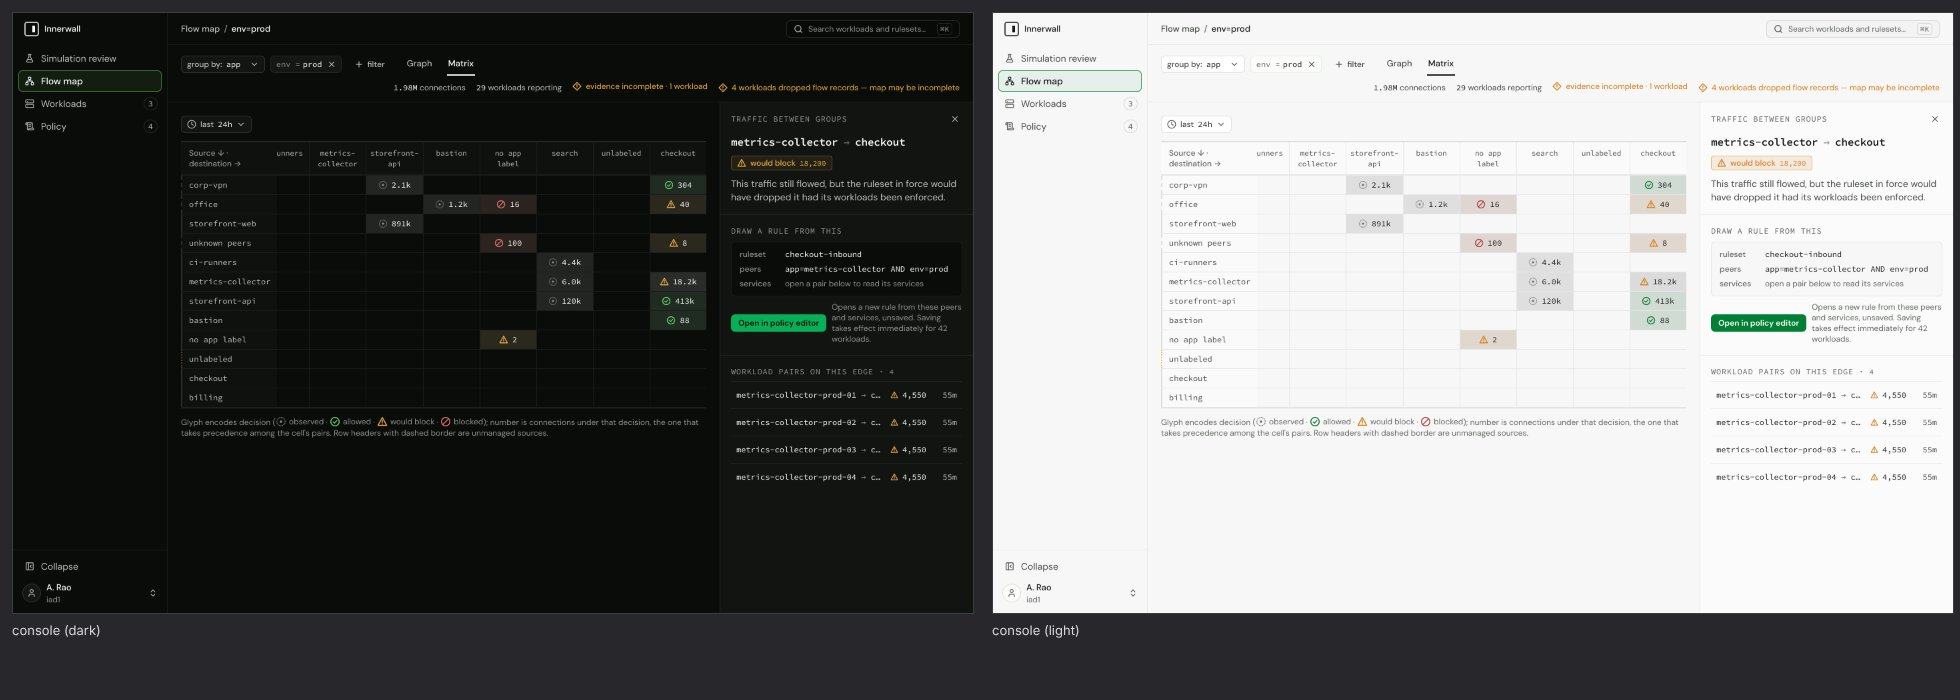
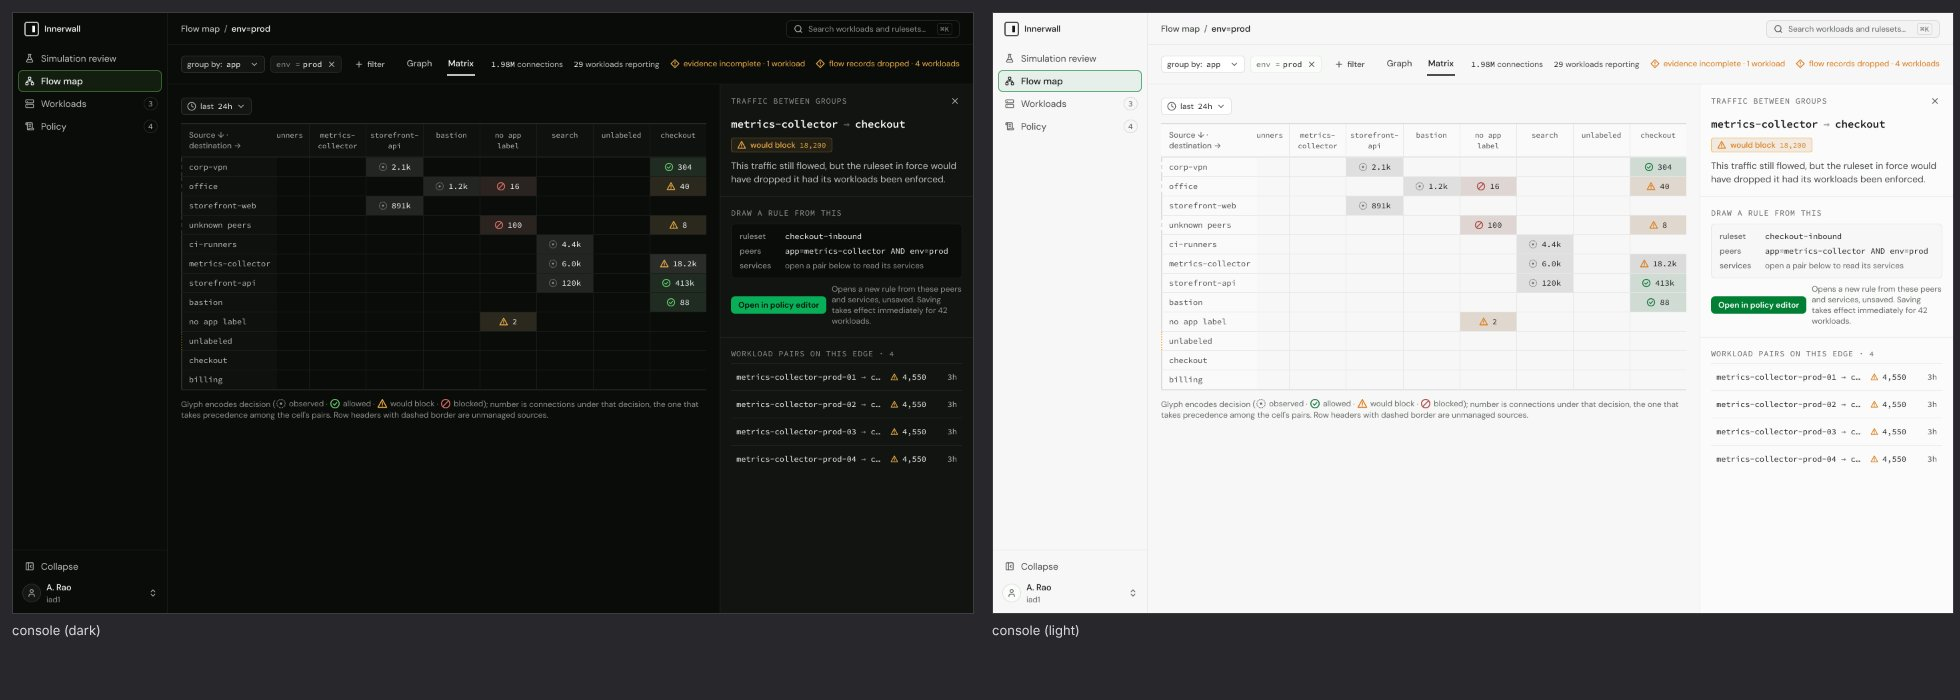
style(console): lock rulings: dropped-records short form, E15 erratum
The flow map's dropped-records warning takes P13's short form,
"flow records dropped · N workload(s)" in the warn tone, with the
repo's sentence and each workload's dropped-record counter as its
tooltip on hover and keyboard focus.

E15 is ruled: the mint dialog keeps the repo's sentence and the
package's "shown once" badge is recorded as a package erratum, not
built. PACKAGE.md records both (E15, P13-a, the added copy).

Recaptures the flow map scenes whose toolbar carries the warning.

Refs: INN-73

diff --git a/ui/src/routes/FlowMap.tsx b/ui/src/routes/FlowMap.tsx
@@ -449,12 +449,39 @@ function Totals({ model }: { model: MapModel }) {
 				</span>
 			) : null}
 			{dropped > 0 ? (
-				<SeverityNote level="alert" role="status">
-					<span title={model.dropped.map((w) => w.hostname).join(", ")}>
-						{count(dropped)} {dropped === 1 ? "workload" : "workloads"} dropped
-						flow records — map may be incomplete
-					</span>
-				</SeverityNote>
+				// The same short form; the sentence and each workload's
+				// counter are its tooltip, on hover or keyboard focus.
+				<span role="status">
+					<Tooltip>
+						<TooltipTrigger asChild>
+							<button
+								type="button"
+								className="cursor-default rounded-inner focus-visible:focus-ring"
+							>
+								<SeverityNote level="alert">
+									flow records dropped · {count(dropped)}{" "}
+									{dropped === 1 ? "workload" : "workloads"}
+								</SeverityNote>
+							</button>
+						</TooltipTrigger>
+						<TooltipContent
+							className="max-w-[420px]"
+							data-testid="dropped-detail"
+						>
+							<p className="text-primary">
+								{count(dropped)} {dropped === 1 ? "workload" : "workloads"}{" "}
+								dropped flow records — map may be incomplete.
+							</p>
+							<ul className="mt-1 flex flex-col gap-0.5 text-secondary">
+								{model.dropped.map((w) => (
+									<li key={w.id}>
+										{w.hostname}: {count(w.health.dropped_flow_records)} dropped
+									</li>
+								))}
+							</ul>
+						</TooltipContent>
+					</Tooltip>
+				</span>
 			) : null}
 			{model.truncated ? (
 				<SeverityNote level="alert" role="status">

diff --git a/ui/src/routes/map/map.test.tsx b/ui/src/routes/map/map.test.tsx
@@ -579,11 +579,19 @@ describe("flow map", () => {
 			],
 		});
 		await openMap();
-		expect(
-			await screen.findByText(
-				/1 workload dropped flow records — map may be incomplete/,
-			),
-		).toBeInTheDocument();
+		// The toolbar holds the short form; the sentence and each
+		// workload's counter are its tooltip, on hover or keyboard focus.
+		const warning = await screen.findByRole("button", {
+			name: /flow records dropped · 1 workload/,
+		});
+		act(() => warning.focus());
+		const detail = await screen.findByTestId("dropped-detail");
+		expect(detail).toHaveTextContent(
+			"1 workload dropped flow records — map may be incomplete.",
+		);
+		expect(within(detail).getByRole("listitem")).toHaveTextContent(
+			"metrics-01: 212 dropped",
+		);
 	});
 
 	it("says the map is incomplete where agents lost evidence in the range, and reads the gaps over its range and scope", async () => {
@@ -626,7 +634,9 @@ describe("flow map", () => {
 		);
 		// The gaps place the dropped records; the live counter's hedge
 		// is not repeated for them.
-		expect(screen.queryByText(/dropped flow records/)).not.toBeInTheDocument();
+		expect(
+			screen.queryByRole("button", { name: /flow records dropped/ }),
+		).not.toBeInTheDocument();
 		const read = calls
 			.filter((x) => x.path.startsWith("/api/v1/flows/gaps"))
 			.map((x) => new URL(x.path, "http://console.test").searchParams);

diff --git a/docs/design/PACKAGE.md b/docs/design/PACKAGE.md
@@ -151,7 +151,7 @@ The console scopes it in code:
 | E12 | **Strip title semantics.** Screens other than a workload's detail keep the breadcrumb in the strip and their own in-content `h1`. Making every strip title an `h1` would duplicate a ruleset's or a verdict's heading. On a workload's detail the name in the strip is the `h1`. | build |
 | E13 | **Flow map nodes and chips.** Nodes are 176 × 64: the console draws a third line (mode, or the unlabeled warning). The on-map chip keeps the repo's count; the package's count-in-chip proposal stays unapplied, and the chip is restyled only. | build |
 | E14 | **Overview cards.** Card titles are the repo's ("Status", "Labels", "Host facts"; the package's board said "Status and sync"). The agent version stays a host fact, not a status row. The Status card keeps the credential row and the apply error. The removed and degraded explanations move to their alert cards. | build |
-| E15 | **"Shown once" badge.** The package specifies a "shown once" warning badge before the mint dialog's sentence. The repo has no such string, so it is **not built** and is escalated as package-implied copy. The sentence is shown as prose with its glyph, and the secret sits in the sunk well. | escalated |
+| E15 | **"Shown once" badge.** The package specifies a "shown once" warning badge before the mint dialog's sentence. The repo has no such string, and the package implies the copy rather than specifying the repo's. It is **not built**: the repo's sentence stands, shown as prose with its glyph, and the secret sits in the sunk well. For a package revision. | lock: keep the repo sentence |
 | E16 | **Totals figures.** "Mono 24/28" has no package type style; the console keeps `type-mono-figure` locally in `index.css`. | build |
 | E17 | **Sign-in title.** The repo's sign-in has no page title (S3 placeholder; the repo owns the flow). `page-title` is used on the 404. | build |
 
@@ -174,6 +174,7 @@ Display and style only, within the package's rules. Wordings are as ruled.
 | P11 | The unmanaged-peer caption ("unmanaged · no address group") is set in the sans at 11px, and the node's side padding is 8px, so it fits the 176px node. It ellipsizes with a tooltip if it ever cannot. |
 | P12 | The map legend keeps short labels. "unmanaged peer" carries the full explanation as its tooltip, on hover and keyboard focus. |
 | P13 | The map's evidence warning is the short form **"evidence incomplete · N workload(s)"** (warn glyph and tone). The full sentence and every gap are its tooltip, on hover and keyboard focus. |
+| P13-a | *Ruled at lock, 2026-10-15.* The map's dropped-records warning takes the same short form: **"flow records dropped · N workload(s)"** (warn glyph and tone). The repo's sentence ("N workload(s) dropped flow records — map may be incomplete.") and each workload's dropped-record counter are its tooltip, on hover and keyboard focus. |
 | P14 | Policy section headers are the mono-upper label alone ("SCOPE", "INBOUND RULES"), each with a text-tertiary sentence-case line under it ("Workloads this ruleset protects", "Who may connect to scoped workloads, on what"). |
 
 ## Polish round 2 (ruled 2026-10-15)
@@ -208,5 +209,6 @@ These strings are new to the repository; every other rendered string is the repo
 - Polish round 1:
   - the stat-tile labels (P1);
   - "evidence incomplete · N workload(s)" (P13);
+  - "flow records dropped · N workload(s)" and the tooltip's "<host>: N dropped" lines (P13-a);
   - "unmanaged peer" as the legend's short label (P12);
   - the policy header split into "Scope" / "Inbound rules" with their sentence-case lines (P14).
